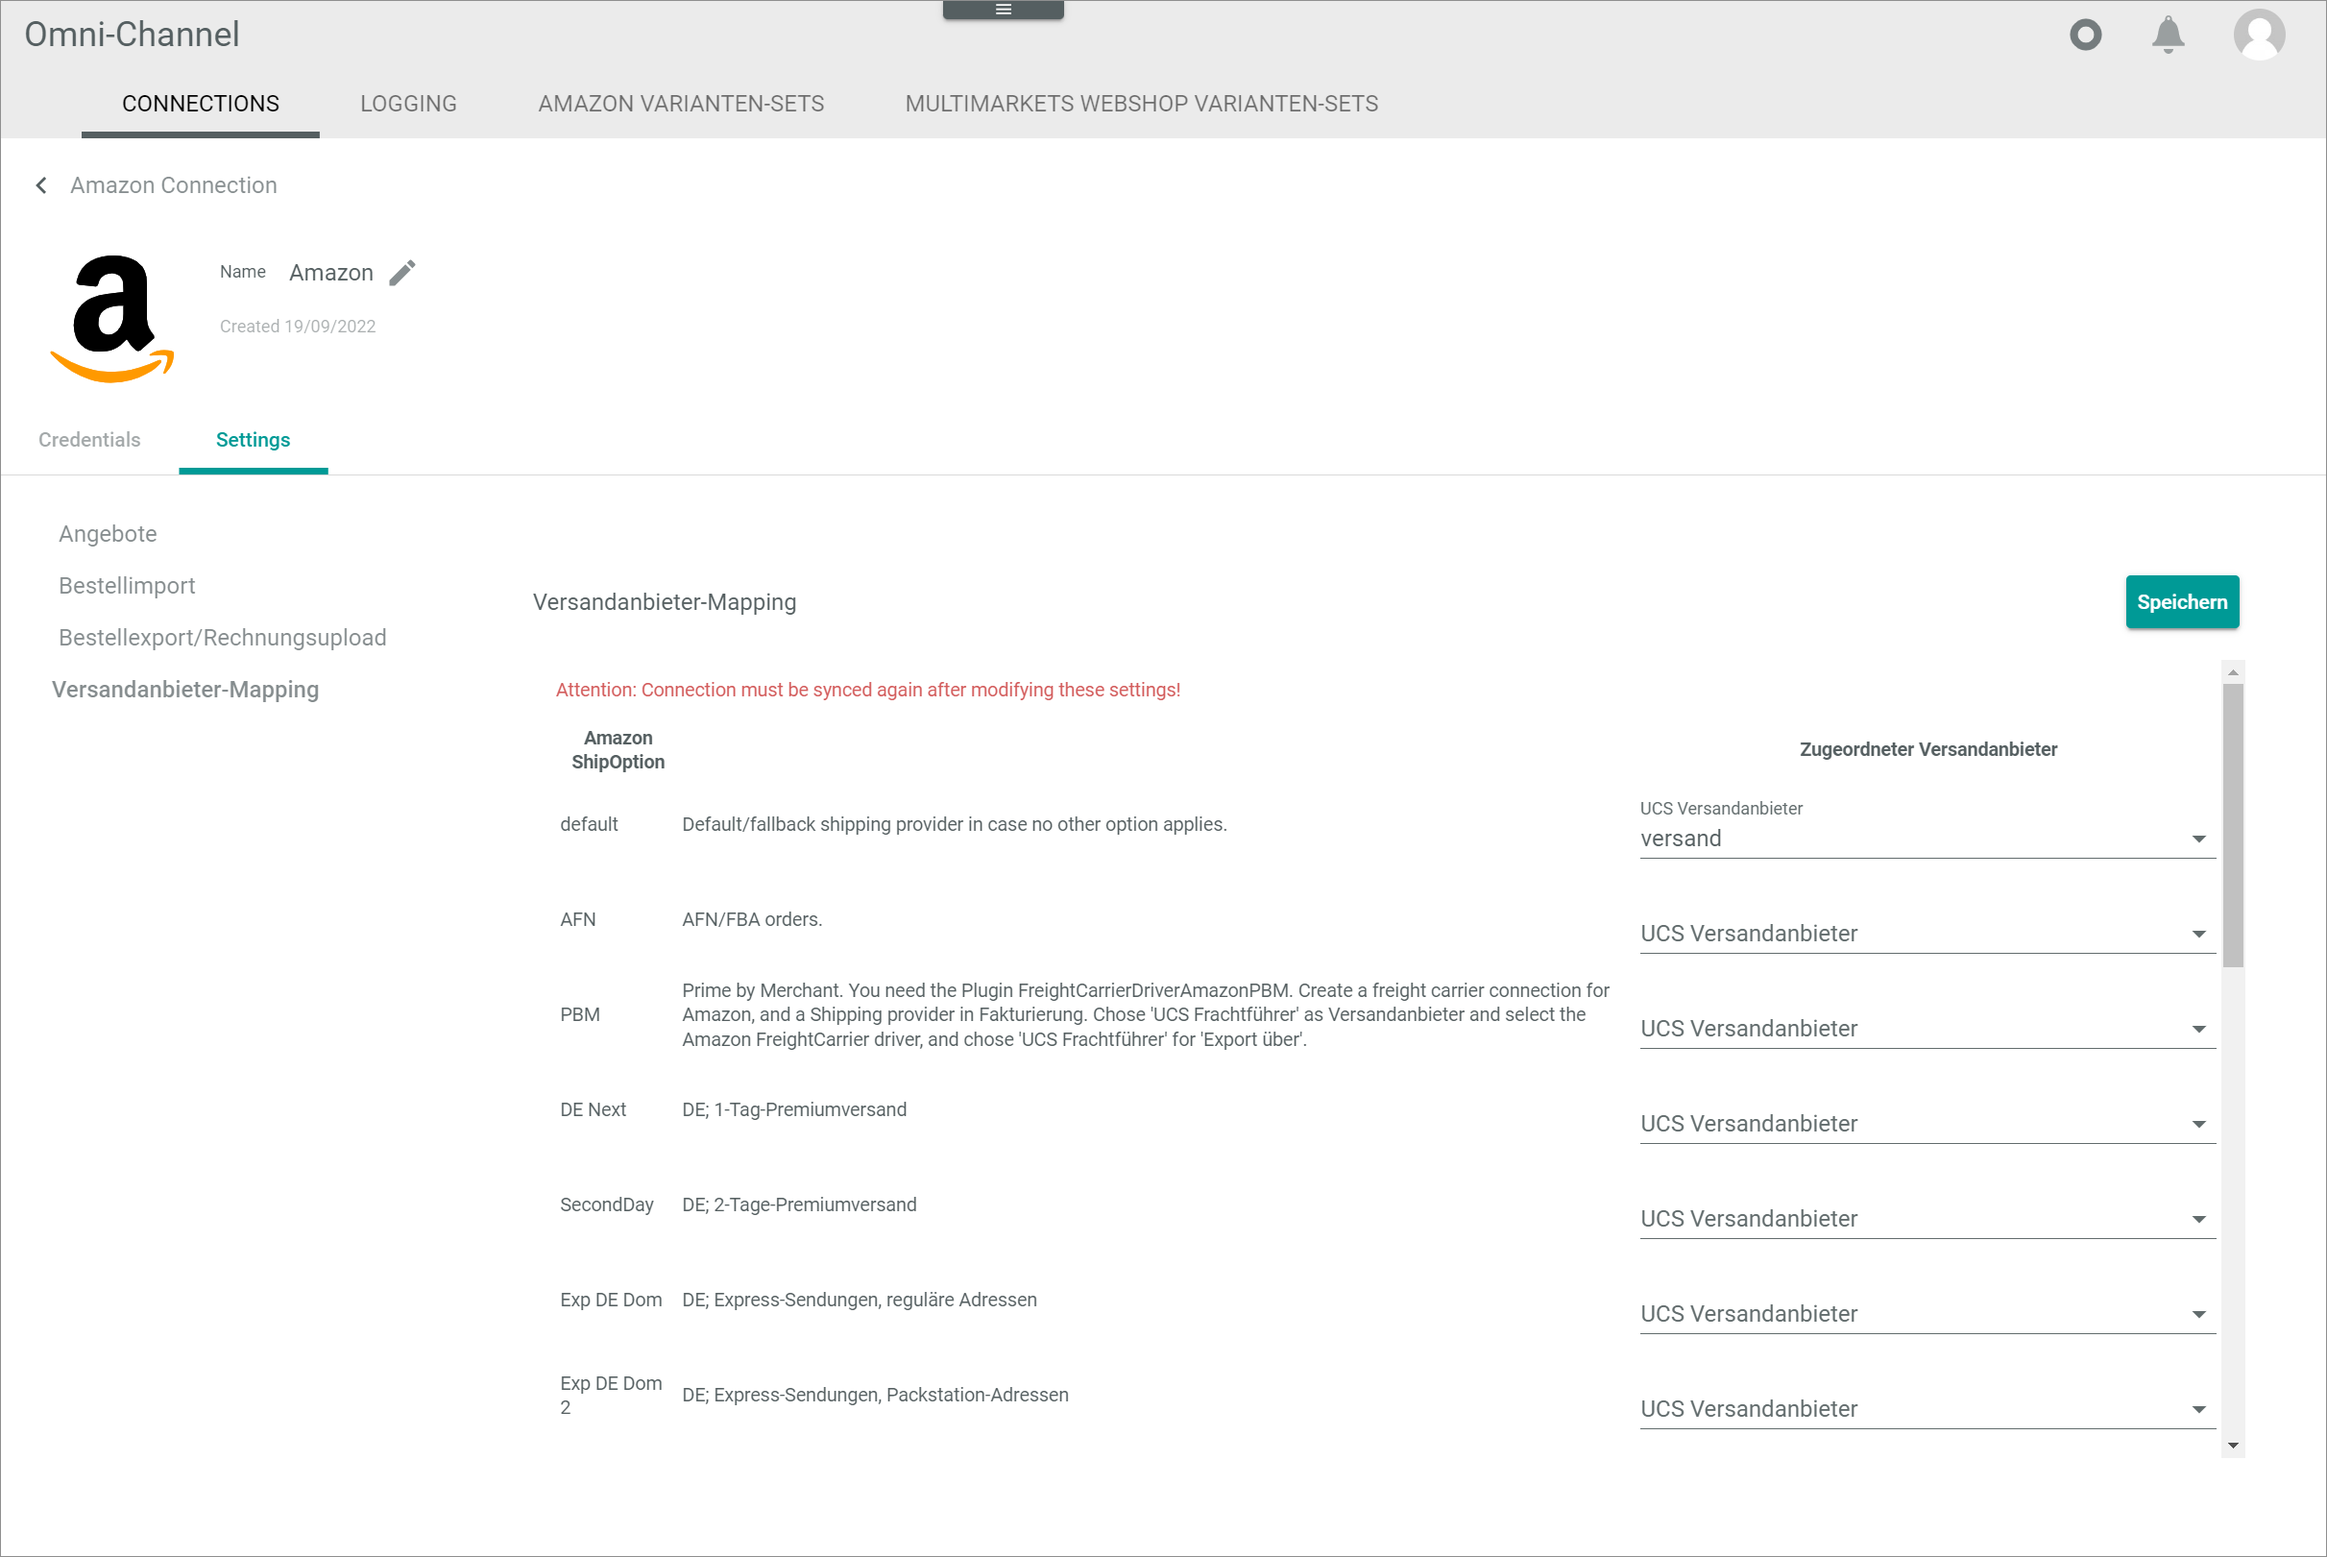
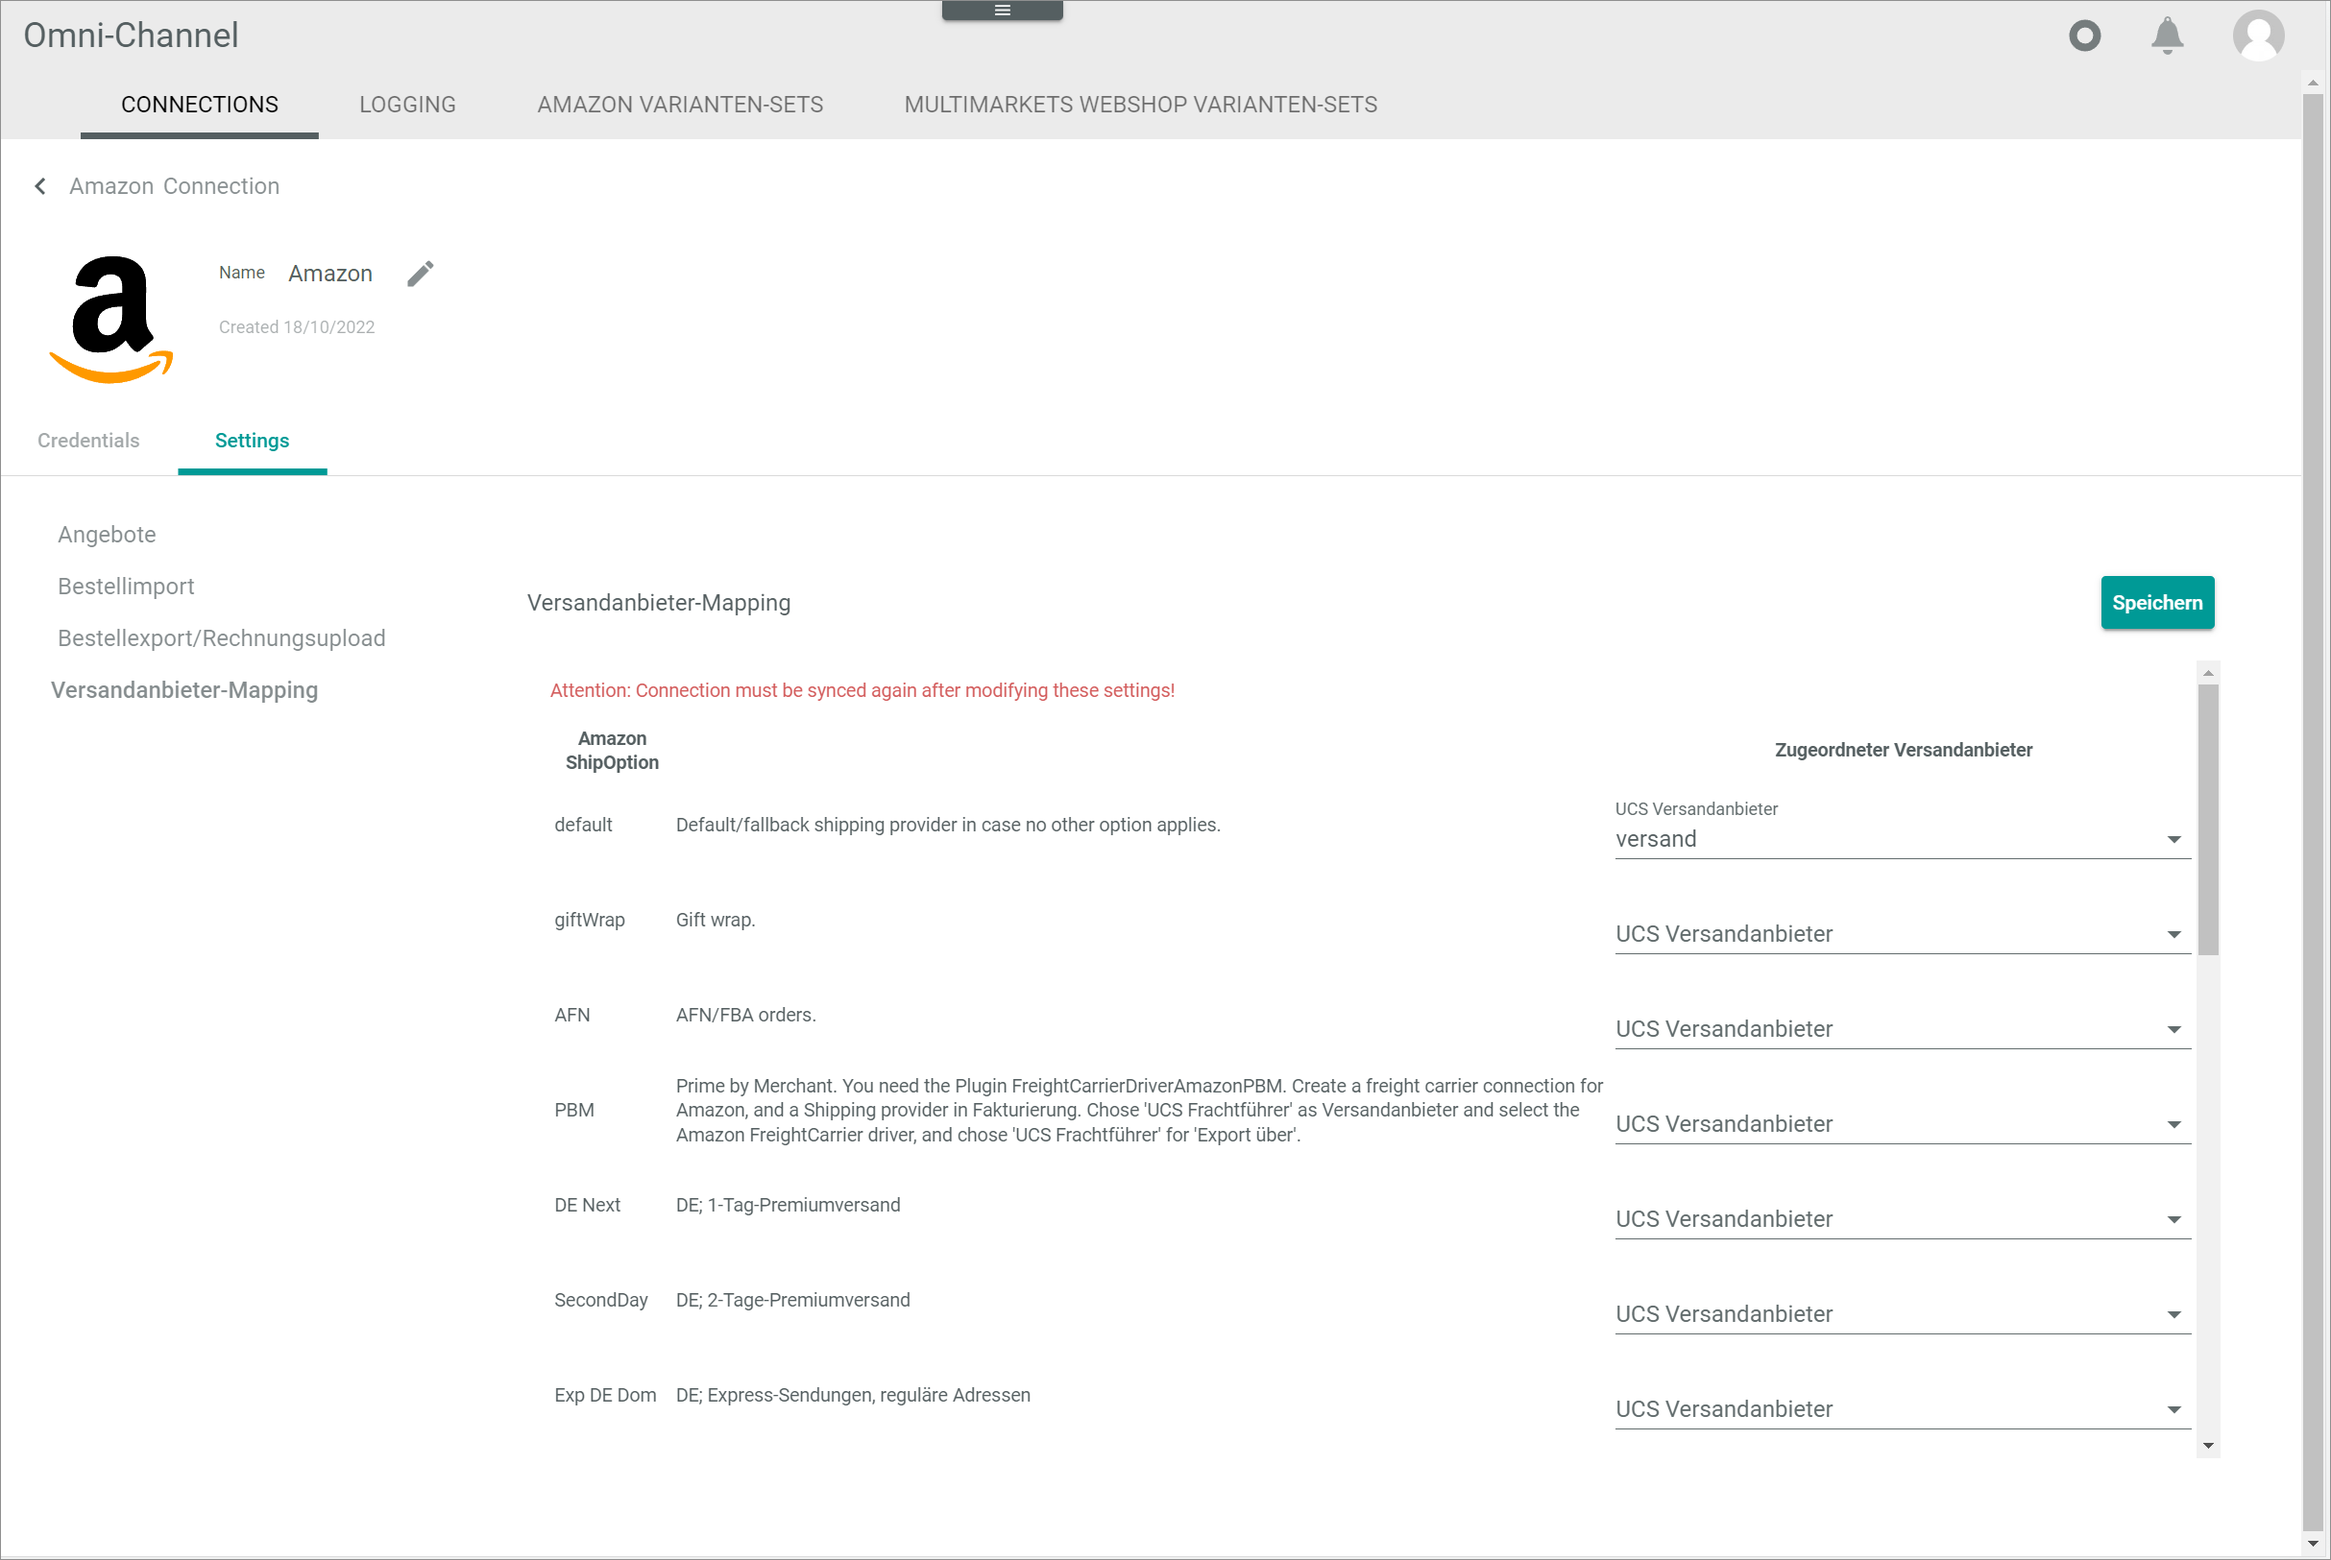
ACD-627
Corrections tech. review, new screenshot, new step added

diff --git a/Channels/Integration/01d_Amazon.md b/Channels/Integration/01d_Amazon.md
@@ -164,20 +164,26 @@ All checkboxes are unlocked.
 
     ![Settings shipping provider mapping](../../Assets/Screenshots/Channels/Settings/Connections/Amazon/EditConnectionSettings_ShippingProviderMapping.png "[Settings shipping provider mapping]")
 
-11. Click the *UCS shipping provider* drop-down list for the default shipping option in the *Assigned shipping provider* column and select the applicable shipping provider. All available shipping providers are displayed in the list.   
- 
+11. Click the *UCS shipping provider* drop-down list for the default shipping option in the *Assigned shipping provider* column and select the applicable shipping provider. All available shipping providers are displayed in the list. 
+
     > [Info] The default shipping provider is used as a fallback shipping provider for all shipping options that have no shipping provider assigned.
 
-12. Click the *UCS shipping provider* drop-down list for each shipping option in the *Assigned shipping provider* column and select the applicable shipping provider. All available shipping providers are displayed in the list. If no shipping provider is selected, the default shipping provider applies.
+12. If desired, click the *UCS shipping provider* drop-down list for the gift wrap option in the *Assigned shipping provider* column and select **Gift wrap**, so that a line item for gift wraps can be added to the OMS orders if needed. This is independent from the other shipping provider mappings. 
+
+    > [Info] The gift wrap option is set up in the *Order management* module: *Order management > Settings > Tab SHIPPING PROVIDER*. Please create a (pseudo) shipping provider, which will show up on invoices as a gift wrap line item. Set the Shipping-provider to CSV, and disable Export, Beleg-Export and Re-Import.
+
+[comment]: <> (HG: Schritt 12 ist neu hinzugefügt. Erklärung wurde von Johannes ergänzt. Beleg-Export habe ich so gelassen, da Fakturierung noch nicht lokalsiert. Neues screenshot mit gift wrap Option auch hinzugefügt.)
+ 
+13. Click the *UCS shipping provider* drop-down list for each shipping option in the *Assigned shipping provider* column and select the applicable shipping provider. All available shipping providers are displayed in the list. If no shipping provider is selected, the default shipping provider applies.
 
     > [Info] The shipping providers are set up in the *Order management* module: *Order management > Settings > Tab SHIPPING PROVIDER*.
 
-13. Click the [SAVE] button.  
+14. Click the [SAVE] button.  
   All changes have been saved. The *Saving successful* pop-up window is displayed.
 
     ![Saving successful](../../Assets/Screenshots/Channels/Settings/Connections/SavingSuccessful.png "[Saving successful]")
 
-14. If the shipping provider mapping has been modified, synchronize the connection to apply all changes to the mapping, see [Synchronize a connection](../Integration/01_ManageConnections.md#synchronize-a-connection).    
+15. If the shipping provider mapping has been modified, synchronize the connection to apply all changes to the mapping, see [Synchronize a connection](../Integration/01_ManageConnections.md#synchronize-a-connection).    
   The *Sync triggered* pop-up window is displayed.
 
     ![Sync triggered](../../Assets/Screenshots/Channels/Settings/Connections/SyncTriggered.png "[Sync triggered]")
